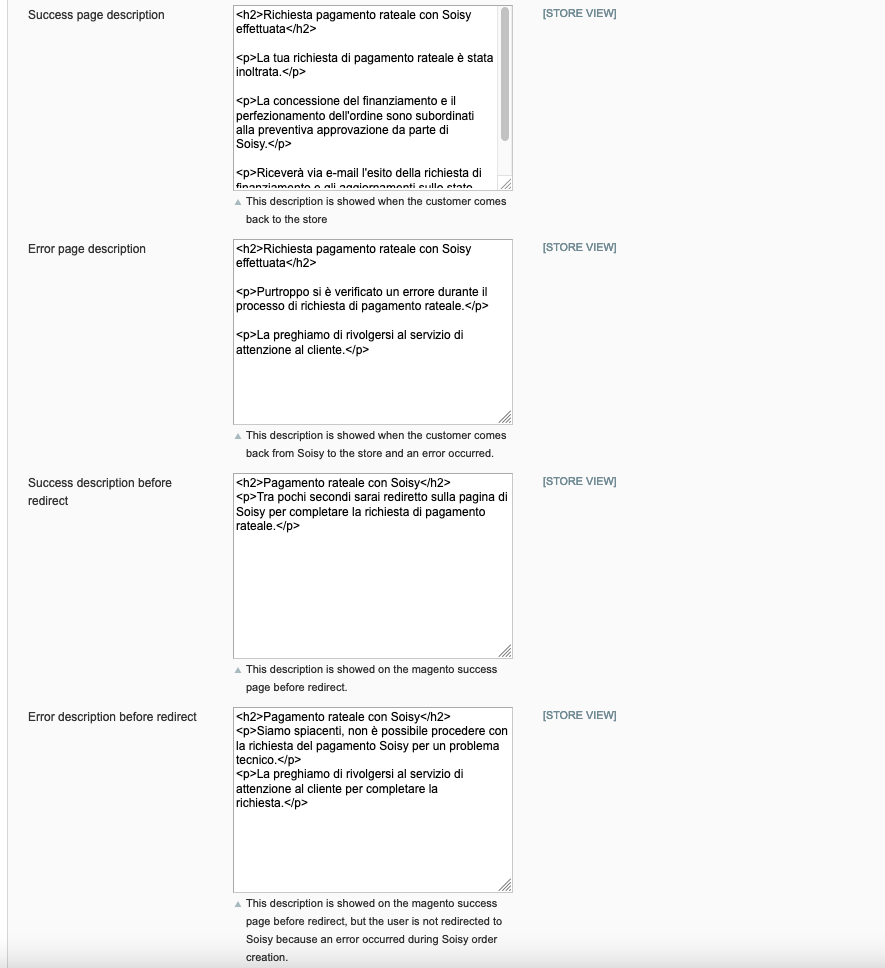
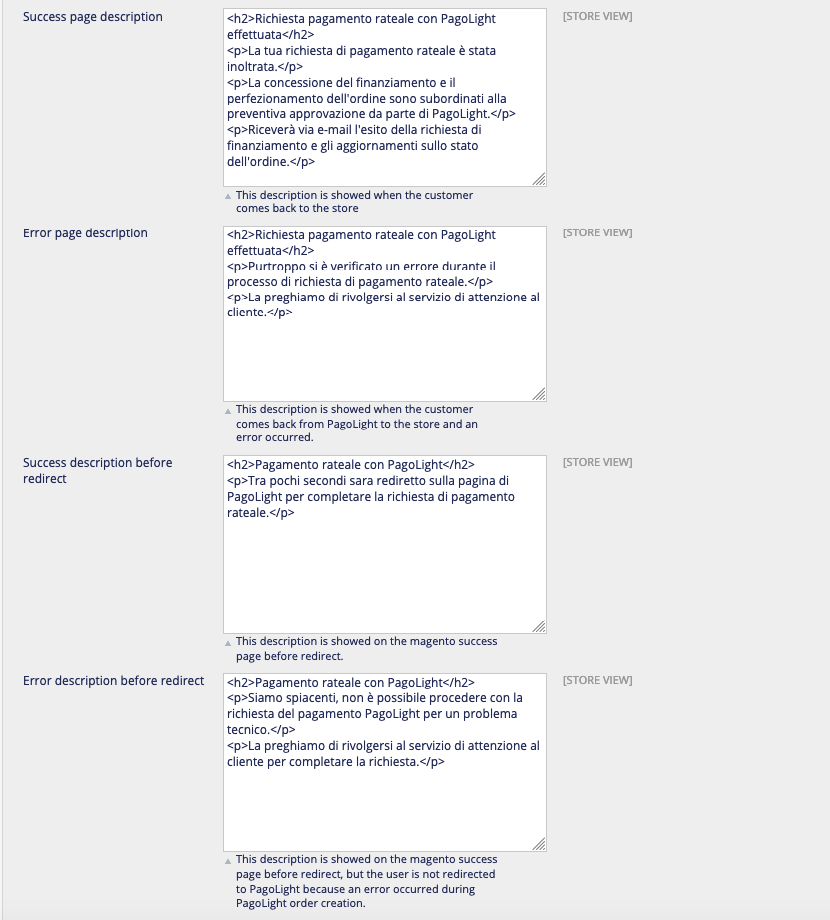
Pagolight rebranding and small bugfixes

diff --git a/app/code/local/Soisy/SoisyPayment/Model/Observer.php b/app/code/local/Soisy/SoisyPayment/Model/Observer.php
@@ -9,9 +9,15 @@ class Soisy_SoisyPayment_Model_Observer
     public function hideSoisyPayment(Varien_Event_Observer $observer) {
         $this->log("hideSoisyPayment: begin");
         try {
-            $method = $observer->getEvent()->getMethodInstance();
+
+            try {
+                $method = $observer->getEvent()->getMethodInstance()->getCode();
+            } catch (Exception $e) {
+                $method='';
+            }
+
             $this->log("hideSoisyPayment: $method");
-            if ($method->getCode() == 'soisypayment') {
+            if ($method == 'soisypayment') {
                 $this->log("hideSoisyPayment: soisypayment is active, check order total...");
                 $quote = $observer->getEvent()->getQuote();
                 $grandTotal = (float)$quote->getgrandTotal();
@@ -112,15 +118,16 @@ class Soisy_SoisyPayment_Model_Observer
         $orderUrl="{$endpoint}/api/shops/{$shopId}/orders/$token";
         $this->log("soisyOrderCreate: orderUrl: $orderUrl");
 
+        // <b>Soisy order info:</b> <a target='_blank' href='$orderUrl' >$orderUrl</a>   <br>\n
+
         if ($token)
             $order->addStatusHistoryComment("
-<b>Soisy token:</b> $token <br>\n
-<b>Soisy order info:</b> <a target='_blank' href='$orderUrl' >$orderUrl</a>   <br>\n
+<b>PagoLight token:</b> $token <br>\n
 <b>Customer webapp url:</b> <a target='_blank' href='$webAppUrl' >$webAppUrl</a>  ")
                 ->setIsCustomerNotified(false)->setIsVisibleOnFront(false);
 
         if (!$token)
-            $order->addStatusHistoryComment("<b>Soisy token:</b> ERROR  ")
+            $order->addStatusHistoryComment("<b>PagoLight token:</b> ERROR  ")
                 ->setIsCustomerNotified(false)->setIsVisibleOnFront(false);
 
         $order->setSoisyToken($token);

diff --git a/app/code/local/Soisy/SoisyPayment/controllers/IndexController.php b/app/code/local/Soisy/SoisyPayment/controllers/IndexController.php
@@ -5,7 +5,7 @@ class Soisy_SoisyPayment_IndexController extends Mage_Core_Controller_Front_Acti
     public function IndexAction() {
 
         $this->loadLayout();
-        $this->getLayout()->getBlock("head")->setTitle($this->__("Soisy"));
+        $this->getLayout()->getBlock("head")->setTitle($this->__("PagoLight"));
         $breadcrumbs = $this->getLayout()->getBlock("breadcrumbs");
         $breadcrumbs->addCrumb("home", array(
             "label" => $this->__("Home Page"),
@@ -14,8 +14,8 @@ class Soisy_SoisyPayment_IndexController extends Mage_Core_Controller_Front_Acti
         ));
 
         $breadcrumbs->addCrumb("soisy", array(
-            "label" => $this->__("Soisy"),
-            "title" => $this->__("Soisy")
+            "label" => $this->__("PagoLight"),
+            "title" => $this->__("PagoLight")
         ));
 
         if (!is_null($this->getRequest()->getParam('error')))

diff --git a/app/code/local/Soisy/SoisyPayment/Helper/Data.php b/app/code/local/Soisy/SoisyPayment/Helper/Data.php
@@ -65,8 +65,12 @@ class Soisy_SoisyPayment_Helper_Data extends Mage_Core_Helper_Abstract
     public function getSoisyToken()
     {
         $orderId = Mage::getSingleton('checkout/session')->getLastRealOrderId();
+        $this->log(" getSoisyToken: orderId=$orderId");
         $order = Mage::getModel("sales/order")->loadByIncrementId($orderId);
-        return $order->getSoisyToken();
+
+        $soisyToken=$order->getSoisyToken();
+        $this->log(" getSoisyToken: soisyToken=$soisyToken");
+        return $soisyToken;
         //return Mage::getSingleton('core/session')->getSoisyToken();
     }
 

diff --git a/README.md b/README.md
@@ -1,6 +1,6 @@
-Magento 1 Soisy Payment Extension
+Magento 1 PagoLight Payment Extension
 =================================
-Magento 1.x Soisy's installment payment method
+Magento 1.x PagoLight's installment payment method
 
 Facts
 -----
@@ -21,8 +21,9 @@ Tested on:
 
 - Magento  1.9.4.5 (with php 5.6)
 - OpenMage 19.4.x (with php 7.2)
+- OpenMage 20.x (with php 8.2)
 
-The module should be compatible also with magento >= 1.9.1 and openmage 20.x
+The module should be compatible also with magento >= 1.9.1 
 
  Installation Instructions
 -------------------------
@@ -31,7 +32,7 @@ The module should be compatible also with magento >= 1.9.1 and openmage 20.x
 ### Modman: 
 * Command: `modman clone git@github.com:soisy/magento-openmage.git`
 
-### Maual
+### Manual
 
 1. Extract `soisy-magento-openmage-main`;
 2. Copy all extracted folder into your root directory (app-assets-skin-composer-license-modman);
@@ -67,23 +68,23 @@ The customer can see the intalments simulated on the product view page:
 
 ![simulation widget on product page](assets/simulation.png)
 
-The customer choose the Soisy payment method:
+The customer choose the PagoLight payment method:
 
 ![Checkout](assets/checkout.png)
 
-When the order is placed the user lands on the magento success page. In this page the Soisy description could be *success description* (the user is redirected to Soisy) or *error descripton* (the user is not redirected to Soisy).
+When the order is placed the user lands on the magento success page. In this page the PagoLight description could be *success description* (the user is redirected to PagoLight/Soisy) or *error descripton* (the user is not redirected to PagoLight/Soisy).
 
-Magento success page, Soisy success: 
+Magento success page, PagoLight success: 
 
-![Success page before redirect to Soisy](assets/success_before_redirect.png)
+![Success page before redirect to PagoLight](assets/success_before_redirect.png)
 
-Magento success page, Soisy error, the user in not redirected: 
+Magento success page, PagoLight error, the user in not redirected: 
 
-![Success page before redirect to Soisy](assets/error_before_redirect.png)
+![Success page before redirect to PagoLight](assets/error_before_redirect.png)
 
 
 
-Once entered all information into Soisy page the customer is redirected again, on a magento Soisy final success page (or final error page):
+Once entered all information into PagoLight page the customer is redirected again, on a magento PagoLight final success page (or final error page):
 
 ![Final success page](assets/success.png)
 
@@ -93,7 +94,7 @@ Once entered all information into Soisy page the customer is redirected again, o
 
 #### Manage oders
 
-Once the customer place the order the store manager can see some information inside status comments. here the store manager could see the *soisy token* used to map the magento order with Soisy order.  
+Once the customer place the order the store manager can see some information inside status comments. here the store manager could see the *soisy token* used to map the magento order with PagoLight order.  
 
 ![Order status comments](assets/order_status_comments.png)
 
@@ -132,4 +133,4 @@ Licence
 
 Copyright
 ---------
-(c) 2021 Soisy
+(c) 2023 PagoLight
